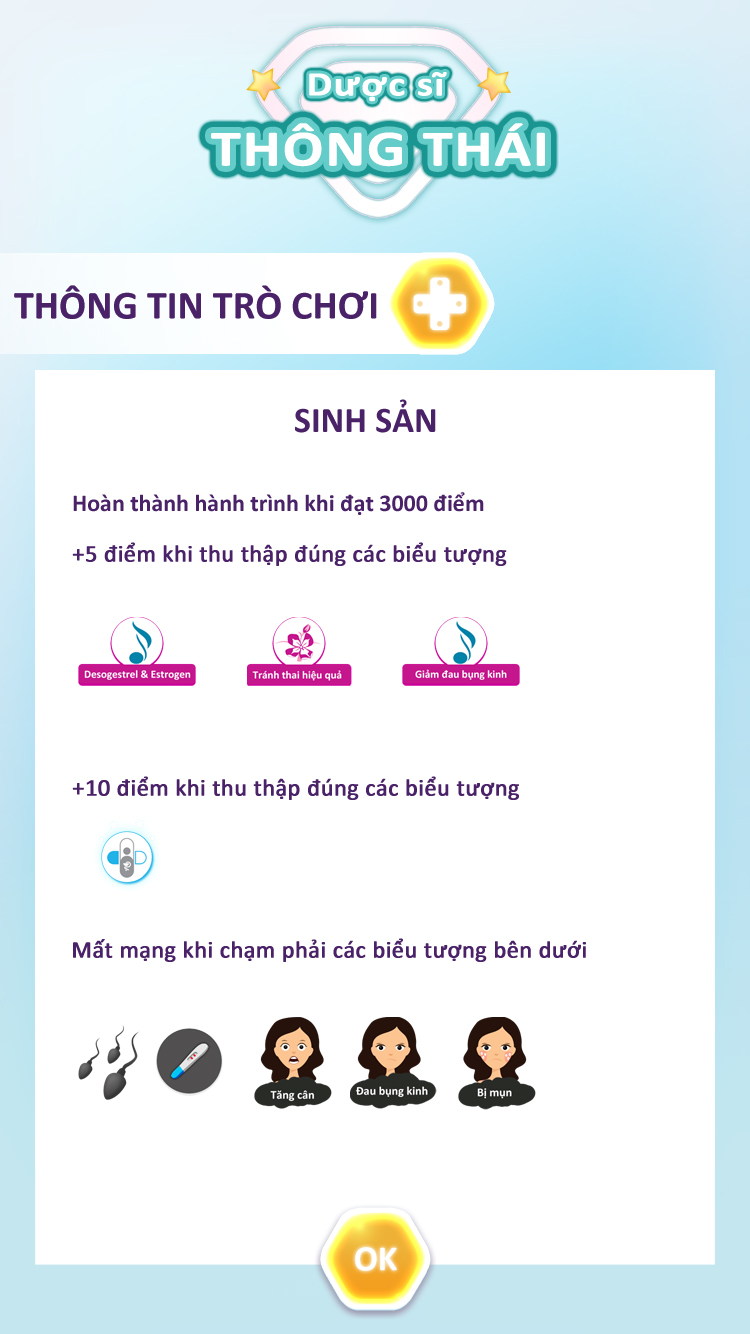
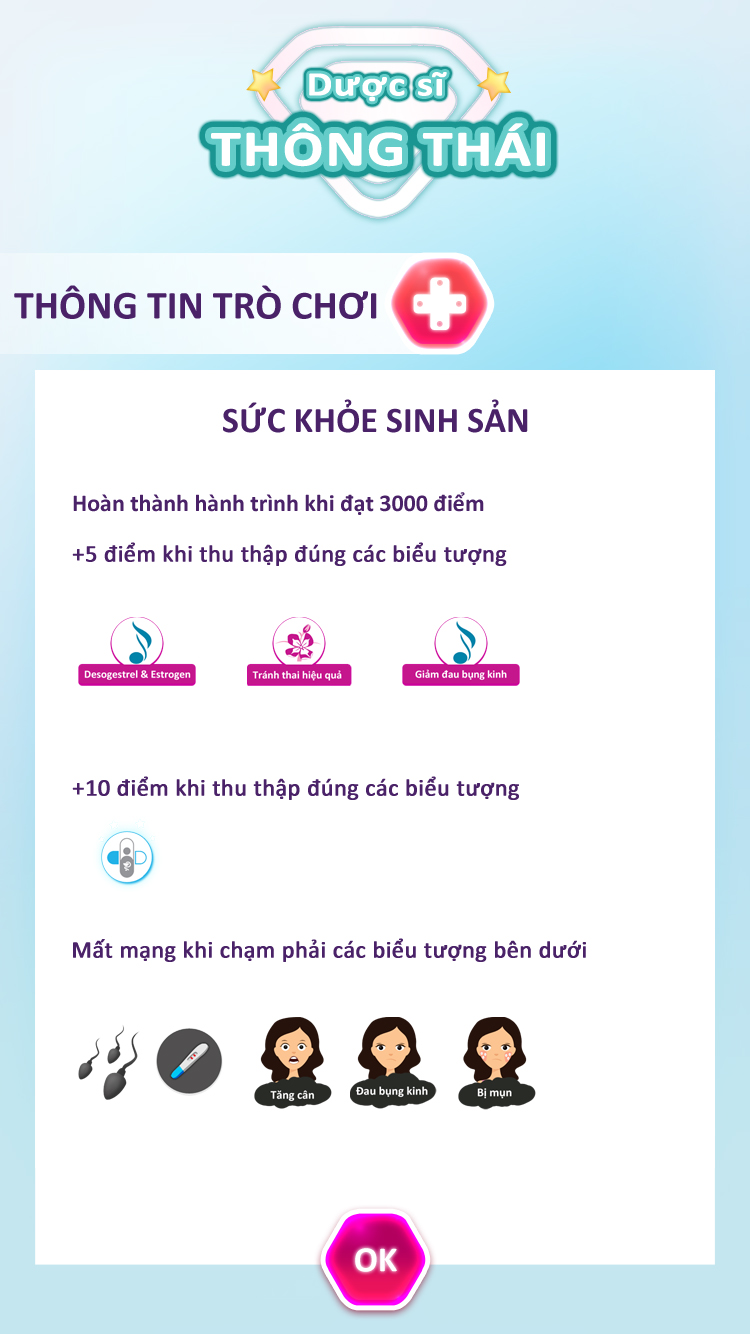
- Update exit button - Update Quiz randomize

Changed region(s): [[0.276, 0.3073, 0.7053, 0.3381], [0.5213, 0.1844, 0.6747, 0.2766], [0.4293, 0.8913, 0.5827, 0.9835]]

diff --git a/js/Quiz/QuizManager.js b/js/Quiz/QuizManager.js
@@ -1,8 +1,15 @@
 const Quiz = require('./Quiz.js')
-
+const MAX_QUIZ_PER_LEVEL = 3
 var QuizManager = function()
 {
-	
+	this.randomQuiz = []
+	this.currentIndex = 0
+}
+
+QuizManager.prototype.ResetQuiz = function()
+{
+	this.randomQuiz = []
+	this.currentIndex = 0
 }
 
 QuizManager.prototype.GetRandomQuiz = function(curLevel)
@@ -12,9 +19,17 @@ QuizManager.prototype.GetRandomQuiz = function(curLevel)
 	if(quizList[curLevel] == null || typeof(quizList[curLevel]) == 'undefined') return null
 
 	var quizLength = Object.keys(quizList[curLevel]).length
-	var randomIndex = Math.floor((Math.random() * quizLength))
+	while(this.randomQuiz.length < MAX_QUIZ_PER_LEVEL)
+	{
+		var randomIndex = Math.floor((Math.random() * quizLength))
+		if(this.randomQuiz.filter(idx => idx == randomIndex).length <= 0)
+			this.randomQuiz.push(randomIndex)
+	}
 
-	return (quizList[curLevel])["question_" + randomIndex]
+	if(this.currentIndex >= this.randomQuiz.length)
+		this.currentIndex = 0
+
+	return (quizList[curLevel])["question_" + this.randomQuiz[this.currentIndex++]]
 }
 
 QuizManager.prototype.GetQuizCount = function(curLevel)

diff --git a/js/States/StateQuiz.js b/js/States/StateQuiz.js
@@ -58,6 +58,11 @@ var StateQuiz = function(forceLevel = null)
 	this.stage.addChild(this.board)
 }
 
+StateQuiz.prototype.ResetQuiz = function()
+{
+    QuizManager.ResetQuiz()
+}
+
 StateQuiz.prototype.Show = function(correctAction = null, failAction = null, forceLevel = null)
 {
     this.currentQuiz = QuizManager.GetRandomQuiz((forceLevel != null)?forceLevel:GameStates.GetLevel())
@@ -158,7 +163,7 @@ StateQuiz.prototype.ProcessQuiz = function()
         }
         this.whiteBoard = new PIXI.Graphics()
         this.whiteBoard.beginFill(0xFFFFFF)
-        var quizHeight = totalHeight + 100
+        var quizHeight = totalHeight + 150
         this.whiteBoard.drawRect(-Defines.QUIZ_WIDTH/2, -quizHeight/2, Defines.QUIZ_WIDTH, quizHeight)
 
         var offsetHeight = totalHeight //(quizHeight > Defines.QUIZ_HEIGHT)?(quizHeight - Defines.QUIZ_HEIGHT):0

diff --git a/js/Core/Application.js b/js/Core/Application.js
@@ -14,6 +14,19 @@ var Application = function(){
 	this.screenOffset = {x:0, y:0}
 	this.scale = 1
 	this.scale_x = 1
+	this.closeBtn = null
+}
+
+Application.prototype.InitCloseButton = function(texture, x, y)
+{
+	this.closeBtn = this.closeBtn || new PIXI.Sprite(texture)
+	this.closeBtn.anchor.set(0, 0)
+	this.closeBtn.position.set(x, y)
+	this.addChild(this.closeBtn)
+	this.closeBtn.interactive = true
+	this.closeBtn.on('pointerdown', ()=>{
+		window.history.back()
+	})
 }
 
 Application.prototype.Shake = function()

diff --git a/js/States/StateLogo.js b/js/States/StateLogo.js
@@ -58,6 +58,7 @@ StateLogo.prototype.Init = function(){
 		'INFO_RungToc'				:'Assets/Menu/INFO_RungToc.jpg',
 		'INFO_SinhSan'				:'Assets/Menu/INFO_SinhSan.jpg',
 		'INFO_TieuHoa'				:'Assets/Menu/INFO_TieuHoa.jpg',
+		'Exit_btn'					:'Assets/Menu/exit-button-hi.png',
 
 		// menu result
 		'rs_bg'				:'Assets/Menu/Leaderboard/background.png',

diff --git a/js/States/StateInformation.js b/js/States/StateInformation.js
@@ -31,6 +31,8 @@ StateInformation.prototype.Init = function()
     }
     Application.addChild(this.stage)
     Application.Align(this.stage)
+
+    Application.InitCloseButton(TextureManager.getTexture('Exit_btn'), 10, 10)
 }
 
 StateInformation.prototype.IsLoadDone = function()

diff --git a/js/States/StateChooseCharacter.js b/js/States/StateChooseCharacter.js
@@ -75,6 +75,8 @@ StateChooseCharacter.prototype.Init = function()
 	
 	Application.addChild(this.stage)
 	Application.Align(this.stage)
+
+	Application.InitCloseButton(TextureManager.getTexture('Exit_btn'), 10, 10)
 }
 
 StateChooseCharacter.prototype.InitCharacters = function()

diff --git a/js/States/StateTutorial.js b/js/States/StateTutorial.js
@@ -28,6 +28,8 @@ StateTutorial.prototype.Init = function()
 	}
 	Application.addChild(this.stage)
 	Application.Align(this.stage)
+	
+	Application.InitCloseButton(TextureManager.getTexture('Exit_btn'), 10, 10)
 }
 
 StateTutorial.prototype.IsLoadDone = function()

diff --git a/js/States/StateLeaderboard.js b/js/States/StateLeaderboard.js
@@ -15,6 +15,8 @@ StateLeaderboard.prototype.Init = function(){
 	})
 	this.stage.addChild(bg)
 	this.stage.addChild(btnPlay)
+
+	Application.InitCloseButton(TextureManager.getTexture('Exit_btn'), 10, 10)
 }
 
 StateLeaderboard.prototype.IsLoadDone = function()

diff --git a/js/States/StateMainMenu.js b/js/States/StateMainMenu.js
@@ -18,6 +18,8 @@ StateMainMenu.prototype.Init = function(){
 	})
 	this.stage.addChild(bg)
 	this.stage.addChild(btnPlay)
+
+	Application.InitCloseButton(TextureManager.getTexture('Exit_btn'), 10, 10)
 }
 
 StateMainMenu.prototype.IsLoadDone = function()

diff --git a/js/States/StateChooseLevel.js b/js/States/StateChooseLevel.js
@@ -196,6 +196,8 @@ StateChooseLevel.prototype.Init = function()
 	Application.addChild(this.stage)
 	Application.Align(this.stage)
 
+	Application.InitCloseButton(TextureManager.getTexture('Exit_btn'), 10, 10)
+
 	this.initLevels()
 }
 

diff --git a/js/States/StateInGame.js b/js/States/StateInGame.js
@@ -154,6 +154,7 @@ StateInGame.prototype.Init = function()
 	{
 		quizPopup = new StateQuiz()
 	}
+	quizPopup.ResetQuiz()
 
 	if(completePopup == null)
 	{
